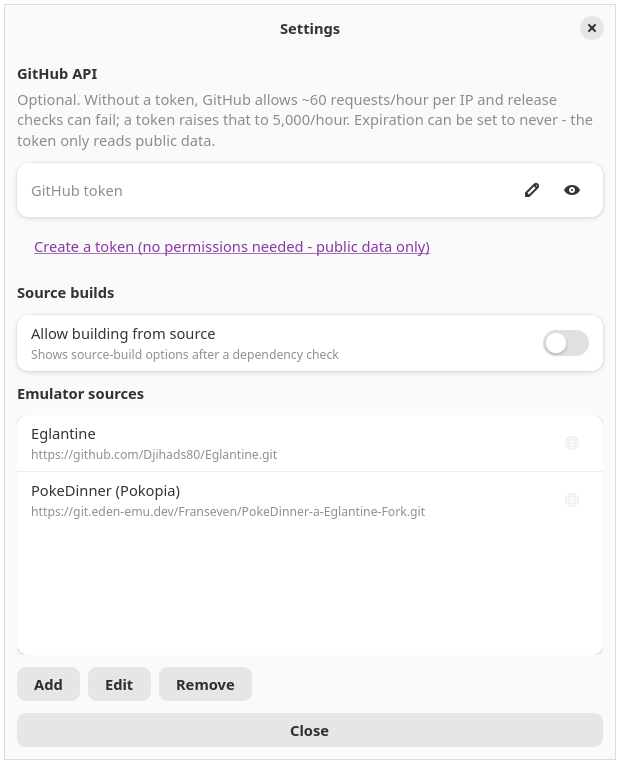
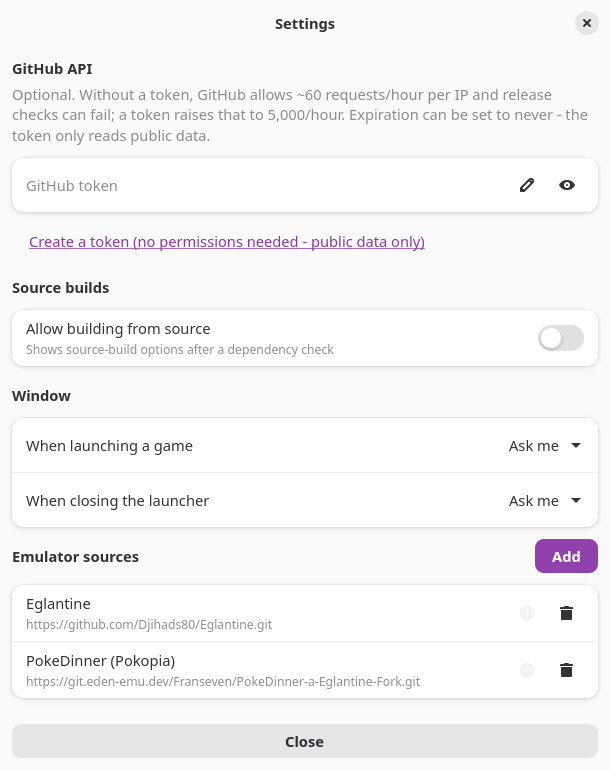
fix(settings): match emulator sources card to other cards, fit content

diff --git a/eglantine_launcher/ui/settings_window.py b/eglantine_launcher/ui/settings_window.py
@@ -371,16 +371,16 @@ class ProjectEditDialog(Adw.Window):
 class SettingsWindow(Adw.Window):
     def __init__(self, parent, on_changed=None):
         super().__init__(transient_for=parent, modal=True, title="Settings")
-        self.set_default_size(620, 720)
+        self.set_default_size(620, 780)
         self.on_changed = on_changed
         self.cfg = load_config()
 
         toolbar = Adw.HeaderBar()
-        box = Gtk.Box(orientation=Gtk.Orientation.VERTICAL, spacing=12)
-        box.set_margin_top(12)
-        box.set_margin_bottom(12)
-        box.set_margin_start(12)
-        box.set_margin_end(12)
+        content_box = Gtk.Box(orientation=Gtk.Orientation.VERTICAL, spacing=12)
+        content_box.set_margin_top(12)
+        content_box.set_margin_bottom(12)
+        content_box.set_margin_start(12)
+        content_box.set_margin_end(12)
 
         self._api_base_desc = (
             "Optional. Without a token, GitHub allows ~60 requests/hour "
@@ -401,9 +401,9 @@ class SettingsWindow(Adw.Window):
         self._token_status_label.set_wrap(True)
         self._token_status_label.set_xalign(0)
         self._token_status_label.set_visible(False)
-        box.append(self._token_status_label)
+        content_box.append(self._token_status_label)
         self._token_status_seq = 0
-        box.append(self.api_group)
+        content_box.append(self.api_group)
 
         token_link = Gtk.LinkButton.new_with_label(
             "https://github.com/settings/personal-access-tokens/new"
@@ -413,7 +413,7 @@ class SettingsWindow(Adw.Window):
             "Create a token (no permissions needed - public data only)",
         )
         token_link.set_halign(Gtk.Align.START)
-        box.append(token_link)
+        content_box.append(token_link)
 
         build_group = Adw.PreferencesGroup(title="Source builds")
         self.source_row = Adw.SwitchRow(title="Allow building from source")
@@ -421,7 +421,7 @@ class SettingsWindow(Adw.Window):
         self.source_row.set_active(self.cfg.get("source_enabled", True))
         self.source_row.connect("notify::active", self._on_source_toggle)
         build_group.add(self.source_row)
-        box.append(build_group)
+        content_box.append(build_group)
 
         window_group = Adw.PreferencesGroup(title="Window")
         self._launch_values = [None, *[v for v, _label in LAUNCH_CHOICES]]
@@ -440,7 +440,7 @@ class SettingsWindow(Adw.Window):
         self.close_behavior_row.set_selected(self._close_index(self.cfg.get("close_behavior")))
         self.close_behavior_row.connect("notify::selected", self._on_close_behavior_changed)
         window_group.add(self.close_behavior_row)
-        box.append(window_group)
+        content_box.append(window_group)
 
         src_header = Gtk.Box(orientation=Gtk.Orientation.HORIZONTAL, spacing=8)
         src_header.set_valign(Gtk.Align.CENTER)
@@ -453,27 +453,33 @@ class SettingsWindow(Adw.Window):
         add_btn.add_css_class("suggested-action")
         add_btn.connect("clicked", self._add)
         src_header.append(add_btn)
-        box.append(src_header)
+        content_box.append(src_header)
 
-        self.list_box = Gtk.ListBox()
-        self.list_box.set_selection_mode(Gtk.SelectionMode.SINGLE)
-        self.list_box.add_css_class("boxed-list")
-        self.list_box.connect("row-activated", self._on_row_activated)
+        self.sources_group = Adw.PreferencesGroup()
+        self._source_rows = []
+        content_box.append(self.sources_group)
 
         scrolled = Gtk.ScrolledWindow()
-        scrolled.set_child(self.list_box)
+        scrolled.set_child(content_box)
         scrolled.set_vexpand(True)
-        scrolled.set_min_content_height(240)
-        box.append(scrolled)
+        scrolled.set_hexpand(True)
+        scrolled.set_policy(Gtk.PolicyType.NEVER, Gtk.PolicyType.AUTOMATIC)
+
+        list_page = Gtk.Box(orientation=Gtk.Orientation.VERTICAL, spacing=0)
+        list_page.append(scrolled)
 
         close_btn = Gtk.Button(label="Close")
         close_btn.connect("clicked", lambda *_: self.close())
-        box.append(close_btn)
+        close_btn.set_margin_top(12)
+        close_btn.set_margin_bottom(12)
+        close_btn.set_margin_start(12)
+        close_btn.set_margin_end(12)
+        list_page.append(close_btn)
         # don't leave the token field focused on open
         self.connect("map", lambda *_: close_btn.grab_focus())
 
         self.stack = Gtk.Stack()
-        self.stack.add_named(box, "list")
+        self.stack.add_named(list_page, "list")
         self.add_page = AddSourcePage(self._on_repo_next, cfg=self.cfg)
         self.stack.add_named(self.add_page, "add")
 
@@ -634,14 +640,16 @@ class SettingsWindow(Adw.Window):
             self._set_token_status(f"Could not verify ({reason}); saved anyway.", "warning")
 
     def _refresh(self):
-        while True:
-            row = self.list_box.get_row_at_index(0)
-            if row is None:
-                break
-            self.list_box.remove(row)
+        for row in getattr(self, "_source_rows", []):
+            try:
+                self.sources_group.remove(row)
+            except Exception:
+                pass
+        self._source_rows = []
         for p in self.cfg.get("projects", []):
             row = Adw.ActionRow(title=p.get("name", p.get("id", "")), subtitle=p.get("source_url", ""))
             row.set_activatable(True)
+            row.connect("activated", self._on_row_activated)
             url = p.get("source_url", "")
             globe = Path(__file__).resolve().parents[1] / "icons" / "globe-symbolic.svg"
             if globe.exists():
@@ -662,7 +670,8 @@ class SettingsWindow(Adw.Window):
             del_btn.connect("clicked", self._on_delete_clicked, p)
             row.add_suffix(del_btn)
             row.project = p
-            self.list_box.append(row)
+            self._source_rows.append(row)
+            self.sources_group.add(row)
 
     def _on_link_clicked(self, _btn, url):
         if url:
@@ -691,7 +700,7 @@ class SettingsWindow(Adw.Window):
 
         ProjectEditDialog(self, None, save, prefill=prefill, cfg=self.cfg).present()
 
-    def _on_row_activated(self, _box, row):
+    def _on_row_activated(self, row, *_args):
         proj = getattr(row, "project", None)
         if proj:
             self._edit_project(proj)

diff --git a/tests/test_window.py b/tests/test_window.py
@@ -108,8 +108,10 @@ def test_settings_window_builds(needs_display, fake_home):
     _app = _make_app()
     window = SettingsWindow(None)
     try:
-        assert window.list_box is not None
+        assert window.sources_group is not None
         assert window.source_row is not None
+        # default config ships two sources; both rows must render
+        assert len(window._source_rows) == 2
     finally:
         window.close()
 
@@ -480,9 +482,9 @@ def test_source_row_click_opens_edit(needs_display, fake_home, monkeypatch):
     try:
         opened = []
         monkeypatch.setattr(window, "_edit_project", lambda proj: opened.append(proj))
-        row = window.list_box.get_row_at_index(0)
+        row = window._source_rows[0]
         assert row is not None
-        window._on_row_activated(window.list_box, row)
+        window._on_row_activated(row)
         assert opened == [row.project]
     finally:
         window.close()
